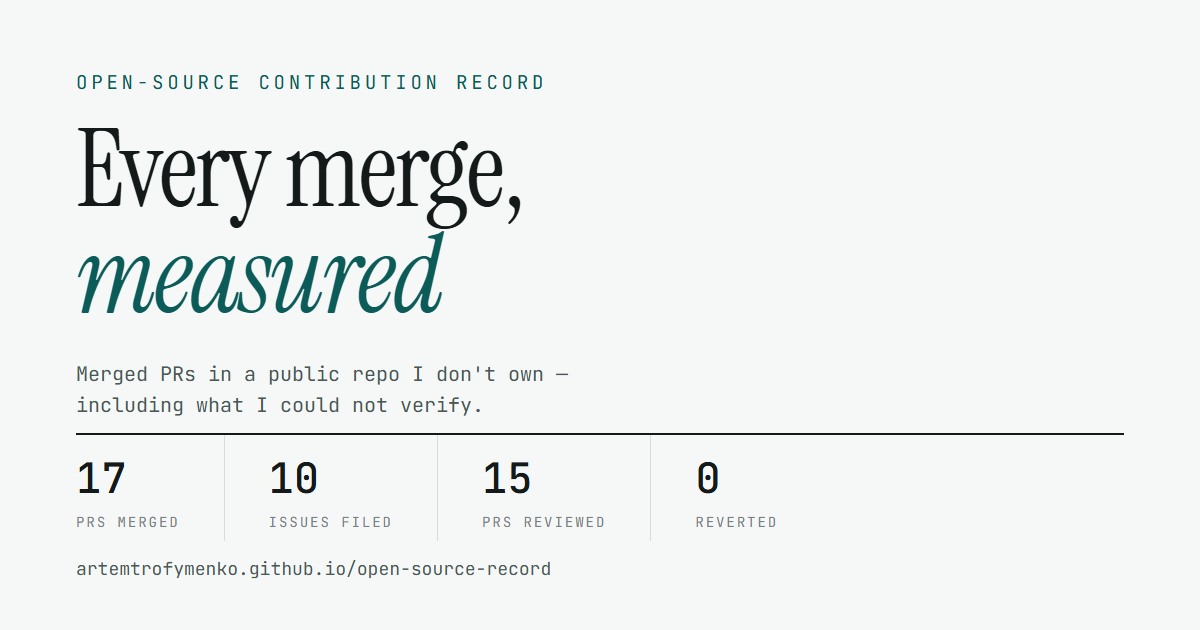
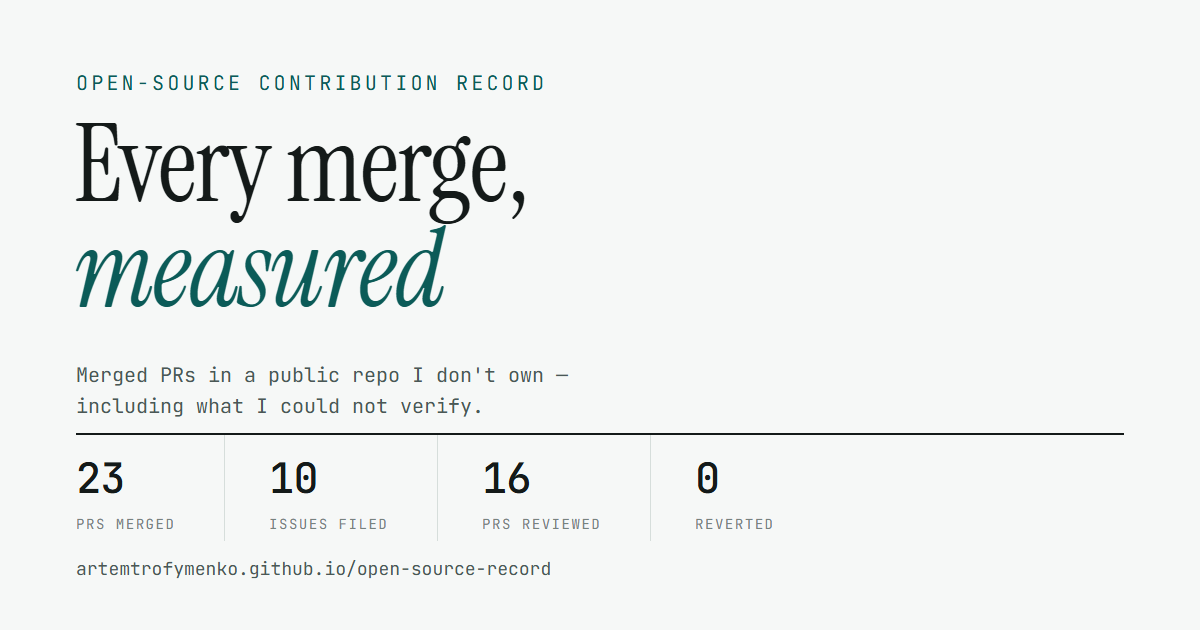
Twenty-three merges, sixteen reviews, rank now 18th; re-measured 5 October

diff --git a/index.html b/index.html
@@ -11,7 +11,7 @@
 <meta property="og:image" content="https://artemtrofymenko.github.io/open-source-record/og.png">
 <meta property="og:image:width" content="1200">
 <meta property="og:image:height" content="630">
-<meta property="og:image:alt" content="Every merge, measured - 17 PRs merged, 10 issues filed, 15 PRs reviewed, 0 reverted">
+<meta property="og:image:alt" content="Every merge, measured - 23 PRs merged, 10 issues filed, 16 PRs reviewed, 0 reverted">
 <meta name="twitter:card" content="summary_large_image">
 <meta property="og:title" content="Every Merge, Measured">
 <meta property="og:description" content="Merged PRs in a public repo I don't own. Every claim links to the thread where you can check it.">
@@ -281,15 +281,15 @@ footer a { color: var(--accent); }
   <header class="masthead">
     <p class="eyebrow">Open-source contribution record · career-ops</p>
     <h1>Every merge,<br><em>measured</em></h1>
-    <p class="standfirst">One month of work, 18 August to 18 September 2026, in a public repository I do not own &mdash; over 72,000 stars, over 13,600 forks, under six months old. Every claim below links to the thread where you can check it, including the ones where the measurement went against me.</p>
+    <p class="standfirst">Under seven weeks of work, 18 August to 4 October 2026, in a public repository I do not own &mdash; over 73,000 stars, over 13,800 forks, six months old. Every claim below links to the thread where you can check it, including the ones where the measurement went against me.</p>
   </header>
 
   <div class="figures">
-    <div class="fig"><b>17</b><span>PRs merged</span></div>
+    <div class="fig"><b>23</b><span>PRs merged</span></div>
     <div class="fig"><b>10</b><span>issues filed, all resolved</span></div>
-    <div class="fig"><b>15</b><span>PRs reviewed</span></div>
+    <div class="fig"><b>16</b><span>PRs reviewed</span></div>
     <div class="fig"><b>0</b><span>reverted</span></div>
-    <div class="fig"><b>20th</b><span>of 423 contributors by commits, tied</span></div>
+    <div class="fig"><b>18th</b><span>of 486 contributors by commits, tied</span></div>
   </div>
 
   <section class="col">
@@ -329,6 +329,16 @@ footer a { color: var(--accent); }
     </div>
 
     <div class="quote">
+      <p>“A test suite that could rewrite someone's own checkout is <b>the kind of thing nobody reports, they just stop trusting the tests</b>.”</p>
+      <cite><a href="https://github.com/career-ops-hq/career-ops/pull/4747">PR #4747</a> · test fixtures that reached outside themselves</cite>
+    </div>
+
+    <div class="quote">
+      <p>“Seventeen merges in, and <b>each fix still arrives with the fixture that proves it</b>.”</p>
+      <cite><a href="https://github.com/career-ops-hq/career-ops/pull/4559">PR #4559</a> · a job board the scanner could not read</cite>
+    </div>
+
+    <div class="quote">
       <p>“Two of them won't appear in the changelog at all, because a test or a refactor doesn't generate a line: Artem wrote the guard that stops a test suite from sitting somewhere nothing runs it. Both are <b>the kind of work that only shows up when it's missing</b>.”</p>
       <cite>Release announcement, career-ops v1.31.0</cite>
     </div>
@@ -357,12 +367,13 @@ footer a { color: var(--accent); }
   runner   cannot reproduce: CI disables the setting that causes it</pre>
     <div class="col">
       <p>The third one I reported rather than fixed. Another contributor had claimed it an hour before the maintainer offered it to me, so I proposed a split instead — they implement, I verify on the box nobody else has. It merged as <a href="https://github.com/career-ops-hq/career-ops/pull/3456">their first contribution to the project</a>, and the verification step is now written into how that work is assigned.</p>
+      <p>The box kept finding them. In October it caught three more tests that created a symlink with no guard (<a href="https://github.com/career-ops-hq/career-ops/pull/4739">#4739</a>), and a test that started about 540 processes to draw 180 samples, so it timed out wherever starting a process is slow (<a href="https://github.com/career-ops-hq/career-ops/pull/4756">#4756</a>): about seven seconds before, a tenth of a second after.</p>
     </div>
   </section>
 
   <section>
-    <h2>The seventeen</h2>
-    <p class="sect-note">18 August – 18 September 2026 · grouped by what was wrong</p>
+    <h2>The twenty-three</h2>
+    <p class="sect-note">18 August – 4 October 2026 · grouped by what was wrong</p>
     <div class="data-wrap">
       <table>
         <thead>
@@ -371,21 +382,27 @@ footer a { color: var(--accent); }
         <tbody>
           <tr><td class="ref"><a href="https://github.com/career-ops-hq/career-ops/pull/3445">#3445</a></td><td>Silent gap</td><td class="what">A test suite at the repo root that nothing ran</td></tr>
           <tr><td class="ref"><a href="https://github.com/career-ops-hq/career-ops/pull/3303">#3303</a></td><td>Silent gap</td><td class="what">20 assertions shipped to every user, never executed</td></tr>
+          <tr><td class="ref"><a href="https://github.com/career-ops-hq/career-ops/pull/4511">#4511</a></td><td>Silent gap</td><td class="what">An anti-bot page read as an empty board with zero postings</td></tr>
           <tr><td class="ref"><a href="https://github.com/career-ops-hq/career-ops/pull/3362">#3362</a></td><td>Windows</td><td class="what">Delete-safety guard that never ran on Windows</td></tr>
           <tr><td class="ref"><a href="https://github.com/career-ops-hq/career-ops/pull/3267">#3267</a></td><td>Windows</td><td class="what">Plugin discovery suite dead on a default install</td></tr>
+          <tr><td class="ref"><a href="https://github.com/career-ops-hq/career-ops/pull/4739">#4739</a></td><td>Windows</td><td class="what">Three tests that failed every non-elevated Windows run</td></tr>
+          <tr><td class="ref"><a href="https://github.com/career-ops-hq/career-ops/pull/4756">#4756</a></td><td>Windows</td><td class="what">A test that timed out where starting a process is slow; its loop now starts none</td></tr>
           <tr><td class="ref"><a href="https://github.com/career-ops-hq/career-ops/pull/3225">#3225</a></td><td>Matching</td><td class="what">A prefix for keywords that begin a longer word</td></tr>
           <tr><td class="ref"><a href="https://github.com/career-ops-hq/career-ops/pull/3297">#3297</a></td><td>Matching</td><td class="what">Documented the half that prefix cannot reach</td></tr>
           <tr><td class="ref"><a href="https://github.com/career-ops-hq/career-ops/pull/2970">#2970</a></td><td>Matching</td><td class="what">“Intern” no longer swallows “Internal”</td></tr>
           <tr><td class="ref"><a href="https://github.com/career-ops-hq/career-ops/pull/2702">#2702</a></td><td>Detection</td><td class="what">Concurrent openings misreported as reposts</td></tr>
           <tr><td class="ref"><a href="https://github.com/career-ops-hq/career-ops/pull/3171">#3171</a></td><td>Detection</td><td class="what">Multi-employer job boards skipped correctly</td></tr>
           <tr><td class="ref"><a href="https://github.com/career-ops-hq/career-ops/pull/3804">#3804</a></td><td>Discovery</td><td class="what">48 of a user's 62 BambooHR companies reported as “unknown, re-run” when the redirect was already the answer</td></tr>
+          <tr><td class="ref"><a href="https://github.com/career-ops-hq/career-ops/pull/4559">#4559</a></td><td>Discovery</td><td class="what">An Avature board where every scan stopped with “no article could be parsed”</td></tr>
           <tr><td class="ref"><a href="https://github.com/career-ops-hq/career-ops/pull/2885">#2885</a></td><td>Liveness</td><td class="what">One dead host stopped poisoning every verdict</td></tr>
           <tr><td class="ref"><a href="https://github.com/career-ops-hq/career-ops/pull/2884">#2884</a></td><td>Liveness</td><td class="what">Postings inside same-origin frames now seen</td></tr>
           <tr><td class="ref"><a href="https://github.com/career-ops-hq/career-ops/pull/4284">#4284</a></td><td>Reliability</td><td class="what">Large Lever boards timed out at the 10 s default; now 30 s, measured on a 42.8 MB board</td></tr>
+          <tr><td class="ref"><a href="https://github.com/career-ops-hq/career-ops/pull/4519">#4519</a></td><td>Diagnostics</td><td class="what">A skipped report now says why and how to release it, with the guard left as strict as it was</td></tr>
           <tr><td class="ref"><a href="https://github.com/career-ops-hq/career-ops/pull/2956">#2956</a></td><td>Filtering</td><td class="what">An allow-list could discard a hard block</td></tr>
           <tr><td class="ref"><a href="https://github.com/career-ops-hq/career-ops/pull/3051">#3051</a></td><td>Filtering</td><td class="what">Matched the support role, not the whole domain</td></tr>
           <tr><td class="ref"><a href="https://github.com/career-ops-hq/career-ops/pull/3011">#3011</a></td><td>Isolation</td><td class="what">Ambient git config leaking into the test suite</td></tr>
           <tr><td class="ref"><a href="https://github.com/career-ops-hq/career-ops/pull/3050">#3050</a></td><td>Isolation</td><td class="what">Moved that regression where discovery finds it</td></tr>
+          <tr><td class="ref"><a href="https://github.com/career-ops-hq/career-ops/pull/4747">#4747</a></td><td>Isolation</td><td class="what">Test fixtures that could write into the contributor's own repository</td></tr>
         </tbody>
       </table>
     </div>
@@ -401,7 +418,7 @@ footer a { color: var(--accent); }
     <h2>Work that isn't a pull request</h2>
     <p class="sect-note">Reviews, and the measurements that changed a decision</p>
     <div class="col">
-      <p>Fifteen pull requests reviewed so far, nine of them since merged. Three where a measurement changed the outcome:</p>
+      <p>Sixteen pull requests reviewed so far, thirteen of them since merged. Three where a measurement changed the outcome:</p>
       <p>On <a href="https://github.com/career-ops-hq/career-ops/issues/3247">#3247</a> the reporter had ruled out the better of two fixes on a premise that turned out to be false — the test runner already did what they believed it could not. I posted the measurement and left the pull request to them. The maintainer changed the decision; they built it and cited the measurement by name.</p>
       <p>On <a href="https://github.com/career-ops-hq/career-ops/pull/2983">#2983</a> someone moved a guard I had written into shared code and said the behaviour was unchanged. I compared old against new across nineteen documented edge cases — identical on all nineteen — which is what made it a same-day merge.</p>
       <p>On <a href="https://github.com/career-ops-hq/career-ops/pull/3607">#3607</a> a change was justified by a claim about Windows filesystem timing. I measured it: directory timestamps resolve at about a millisecond, three orders of magnitude finer than the change assumed. The fix is still reasonable; the sentence explaining it was not.</p>
@@ -450,8 +467,8 @@ footer a { color: var(--accent); }
 
   <footer>
     Artem Trofymenko · github.com/artemtrofymenko<br>
-    Repository: <a href="https://github.com/career-ops-hq/career-ops">career-ops-hq/career-ops</a> — open source, MIT, 423 contributors<br>
-    Every number here is reproducible from the linked threads. Last checked 25 September 2026.
+    Repository: <a href="https://github.com/career-ops-hq/career-ops">career-ops-hq/career-ops</a> — open source, MIT, 486 contributors<br>
+    Every number here is reproducible from the linked threads. Last checked 5 October 2026.
   </footer>
 
 </div>
